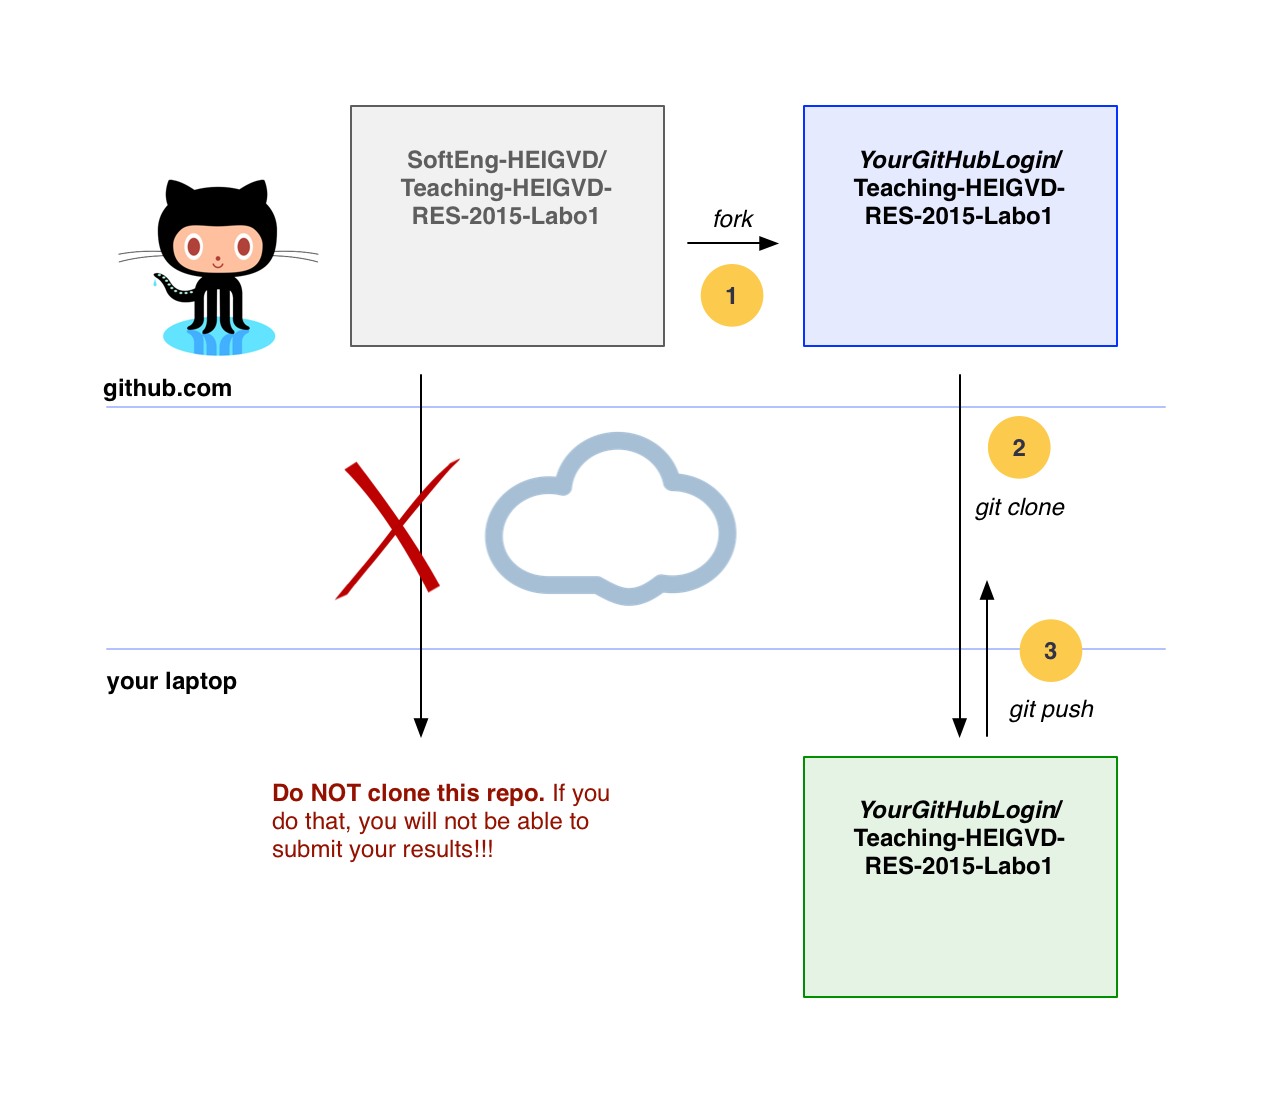
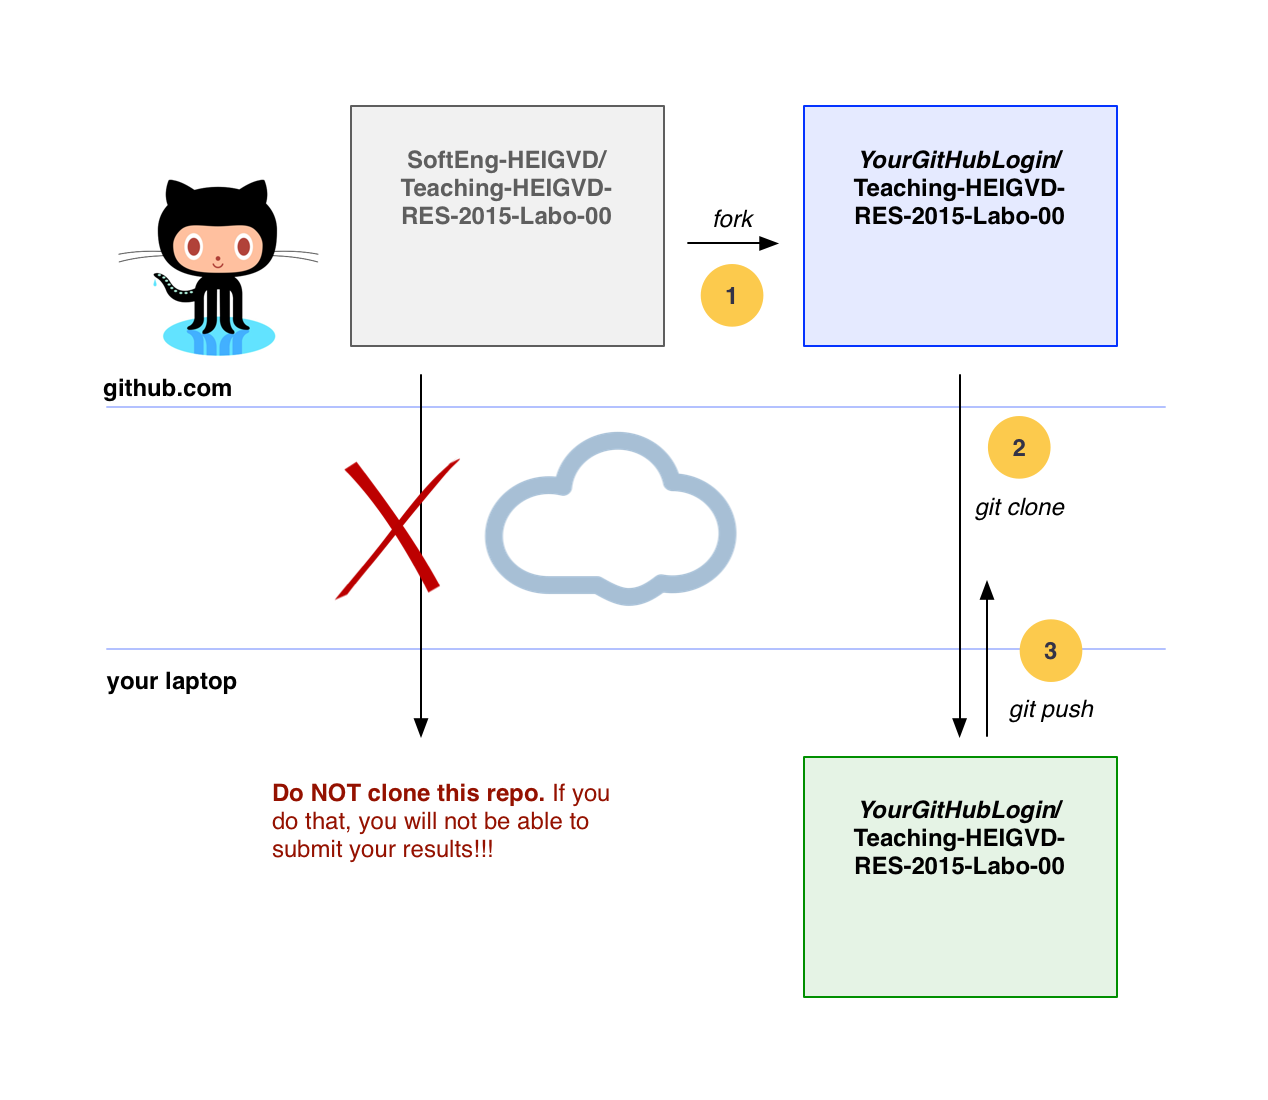
Fix lab numbering issue: move 01 to 00

Changed region(s): [[0.6767, 0.7727, 0.8612, 0.8036], [0.6767, 0.1855, 0.8612, 0.2164], [0.3076, 0.1855, 0.4921, 0.2164]]

diff --git a/Lab00App-build/Lab00App-tests/src/test/java/ch/heigvd/res/lab00/ApplicationTest.java b/Lab00App-build/Lab00App-tests/src/test/java/ch/heigvd/res/lab00/ApplicationTest.java
@@ -1,6 +1,6 @@
-package ch.heigvd.res.lab01;
+package ch.heigvd.res.lab00;
 
-import ch.heigvd.res.lab01.Application;
+import ch.heigvd.res.lab00.Application;
 import org.junit.Test;
 import static org.junit.Assert.*;
 

diff --git a/Lab00App-build/Lab00App-code/src/main/java/ch/heigvd/res/lab00/Application.java b/Lab00App-build/Lab00App-code/src/main/java/ch/heigvd/res/lab00/Application.java
@@ -1,4 +1,4 @@
-package ch.heigvd.res.lab01;
+package ch.heigvd.res.lab00;
 
 /**
  * This is a very simple class used to demonstrate the specify-implement-validate

diff --git a/Lab00App-build/Lab00App-tests/src/test/java/ch/heigvd/res/lab00/TrumpetTest.java b/Lab00App-build/Lab00App-tests/src/test/java/ch/heigvd/res/lab00/TrumpetTest.java
@@ -1,4 +1,4 @@
-package ch.heigvd.res.lab01;
+package ch.heigvd.res.lab00;
 
 import org.junit.Assert;
 import static org.junit.Assert.assertNotNull;
